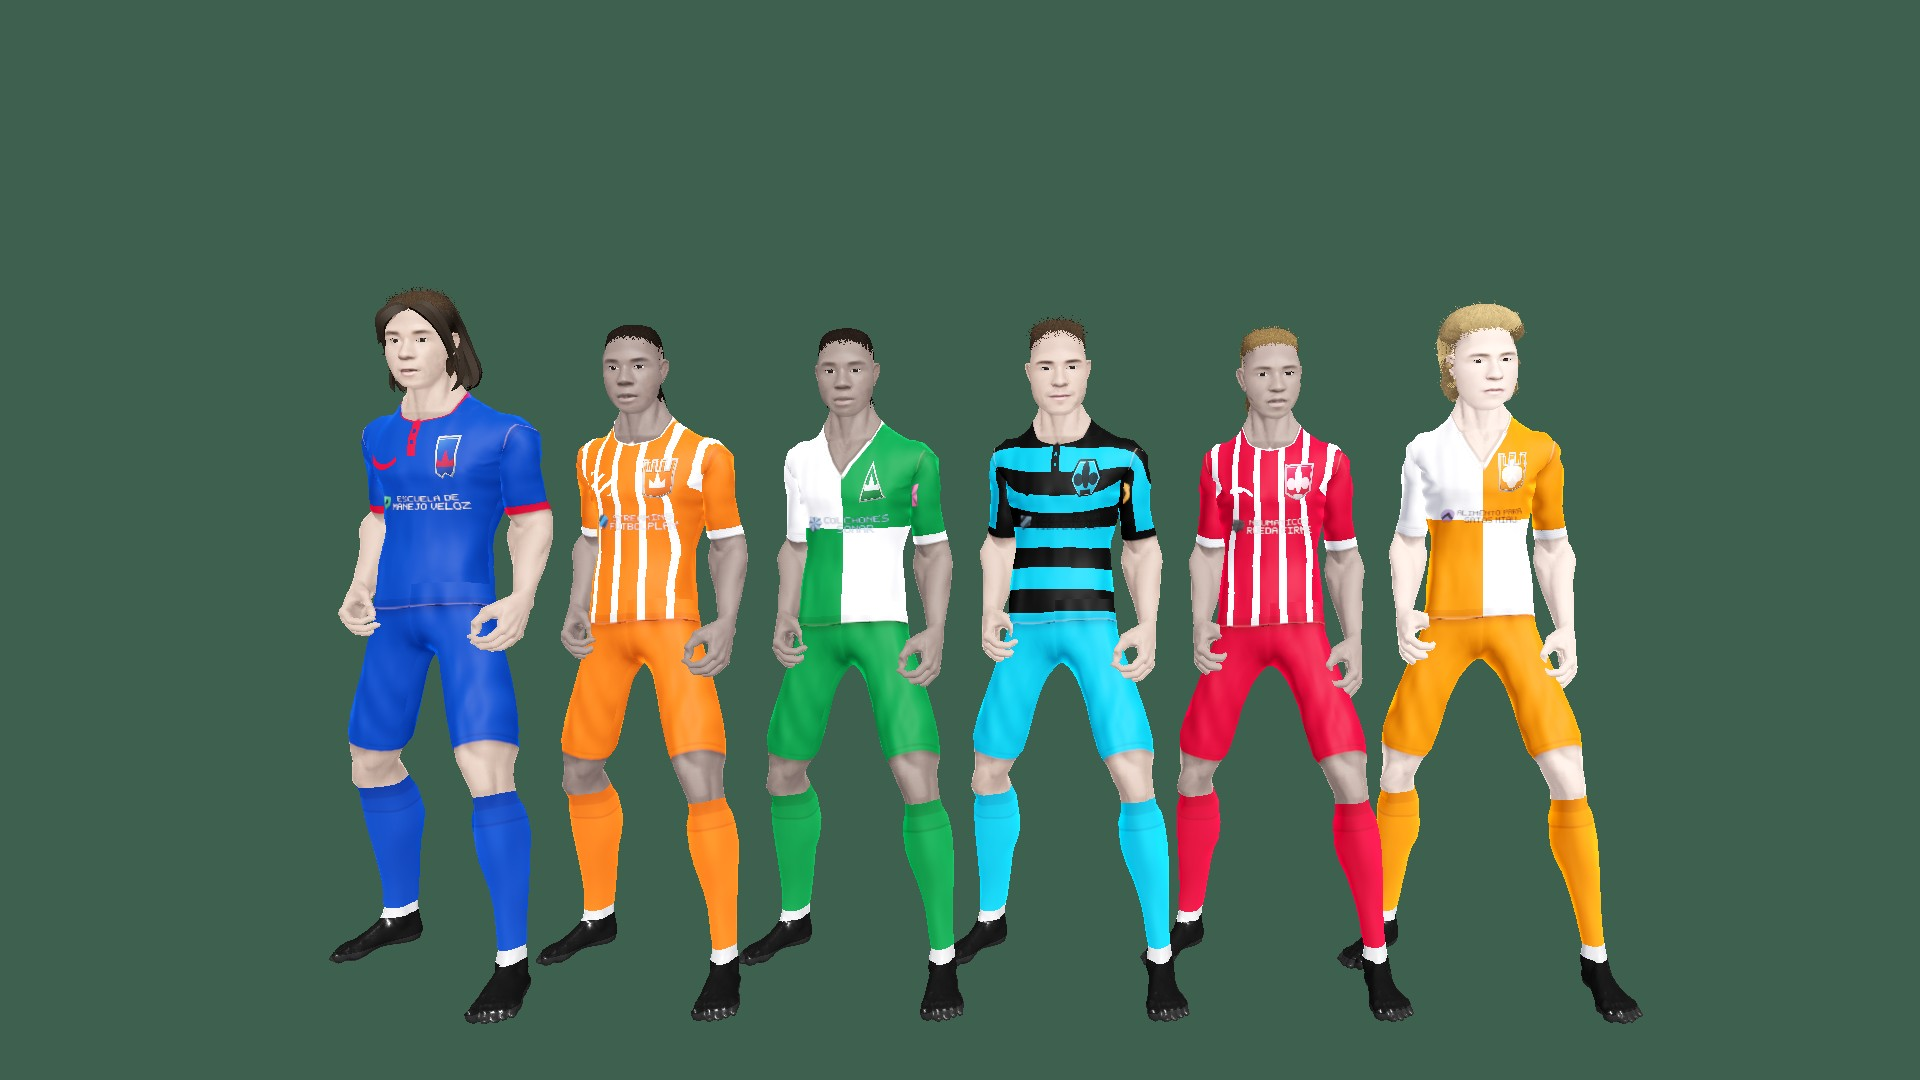
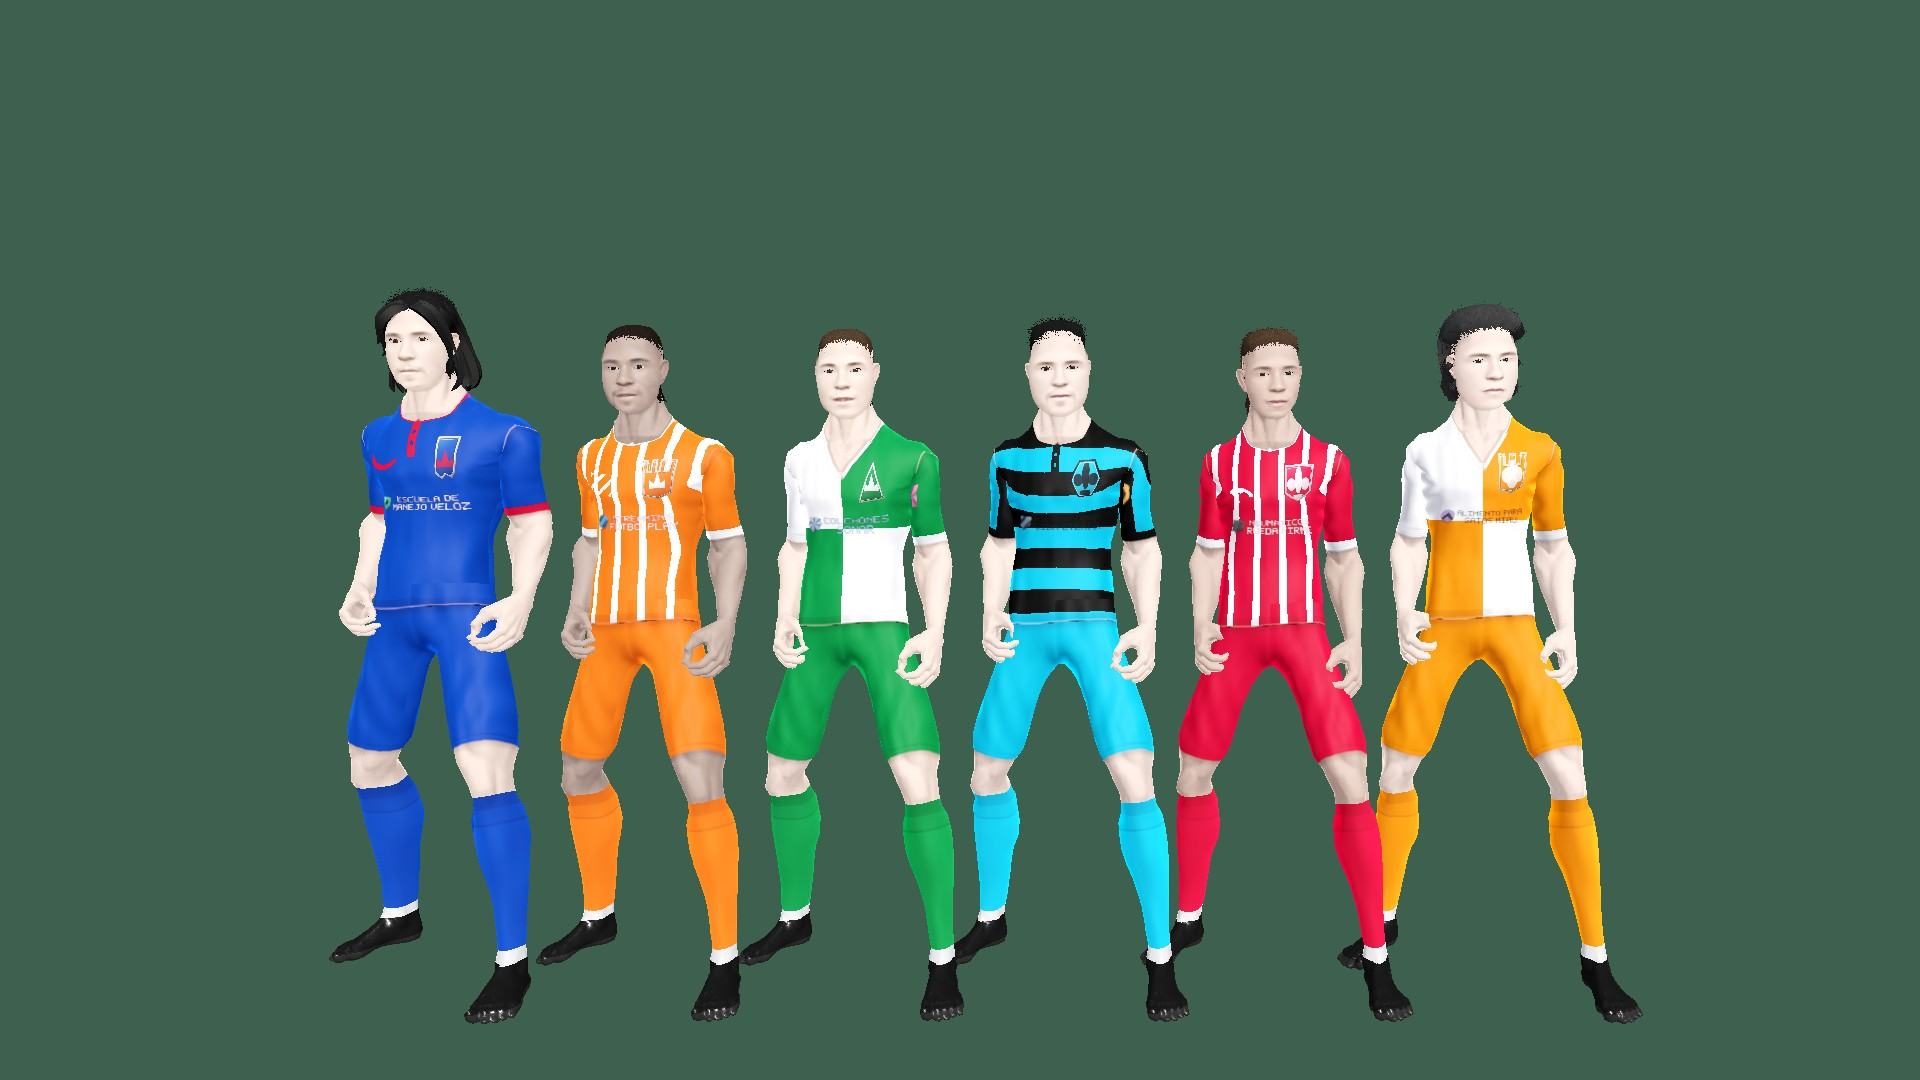
Jugadores inventados con piel y pelo según su país
M-088. Tono medio de piel por país con campana de ±1,2 tonos (siempre hay
variedad) y rubios/castaño claro solo en pieles claras, con probabilidad por
país; los reales siguen con lo medido en su foto. Con String.hash() en vez de
djb2 (con la misma cola de texto daba números correlacionados).
Banco: _probar_piel_por_pais.

Claude-Session: https://claude.ai/code/session_01ARN9gScwNAgW7YBZZkCunU

diff --git a/dinastia-godot/ESTADO_MEJORAS.md b/dinastia-godot/ESTADO_MEJORAS.md
@@ -18,7 +18,7 @@ Estado tras ella: **HECHO 102 · PARCIAL 111 · PENDIENTE 239**. Cerrados: M-021
 
 ### Pasada del 21-10 (tercera: hallazgos del vídeo de gameplay, informe técnico y piezas modulares)
 
-Estado tras ella: **HECHO 104 · PARCIAL 114 · PENDIENTE 234** (contado fila a fila); con la 4.ª (fabricantes M-057, motor del coche M-173, práctica libre M-130, ropa del público M-033, cuerpos M-081 y la pantalla gigante M-011, que ya estaba): **HECHO 112 · PARCIAL 115 · PENDIENTE 225** (con la presión por gatillos M-124, la directiva en el palco M-040 y los choques del coche M-172). Hallazgos del vídeo: pocas ocasiones (M-138: ritmos y `prisa`), controles táctiles en PC (M-433), el mentor tapaba la rueda de prensa (`MentorVoz` espera, grupo `no_tapar_mentor`), haces de farola en triángulo (M-014), malabares rehechos con racha ×2/×3/×4, manos del público del color de la ropa (`hinchada.gdshader`). Informe técnico: oclusión de la ciudad (M-344), panel de objetivos por señal (M-386), texturas revisadas (M-346). Pedido del dueño «reusar todos los objetos, separar y unir de forma modular»: `visor/modulos.gd` (reserva para reciclar, unir/separar conjuntos, guardarlos como datos, teñir por material) y el edificio del club amueblado con él (M-186), con 7 objetos de decoración nuevos.
+Estado tras ella: **HECHO 104 · PARCIAL 114 · PENDIENTE 234** (contado fila a fila); con la 4.ª (fabricantes M-057, motor del coche M-173, práctica libre M-130, ropa del público M-033, cuerpos M-081 y la pantalla gigante M-011, que ya estaba): **HECHO 113 · PARCIAL 115 · PENDIENTE 224** (con la presión por gatillos M-124, la directiva en el palco M-040, los choques del coche M-172 y la piel y el pelo por país M-088). Hallazgos del vídeo: pocas ocasiones (M-138: ritmos y `prisa`), controles táctiles en PC (M-433), el mentor tapaba la rueda de prensa (`MentorVoz` espera, grupo `no_tapar_mentor`), haces de farola en triángulo (M-014), malabares rehechos con racha ×2/×3/×4, manos del público del color de la ropa (`hinchada.gdshader`). Informe técnico: oclusión de la ciudad (M-344), panel de objetivos por señal (M-386), texturas revisadas (M-346). Pedido del dueño «reusar todos los objetos, separar y unir de forma modular»: `visor/modulos.gd` (reserva para reciclar, unir/separar conjuntos, guardarlos como datos, teñir por material) y el edificio del club amueblado con él (M-186), con 7 objetos de decoración nuevos.
 
 ## 1. Resumen en cifras
 
@@ -154,7 +154,7 @@ Hecho 10 % · parcial 25 % · pendiente 60 % · del dueño 2 % · sin verificar 
 | M-085 | P2 | Envejecimiento visual de jugadores (canas, arrugas) no ligado a `edad` | PARCIAL | 21-10: canas desde los 32 en los inventados (`Cara.look_de`, a uno de cada cuatro casi nada); los reales llevan el color de su foto; arrugas pendientes |
 | M-086 | P2 | Expresiones faciales limitadas a `Expresion` básica | PENDIENTE | `Expresion` sin emociones nuevas |
 | M-087 | P2 | Sin parpadeo/respiración idle variados | PARCIAL | parpadeo en el DT/`Expresion`; sin respiración idle en jugadores |
-| M-088 | P1 | Pelo con 30 cortes pero poca variación de color/aspecto por país | PENDIENTE | sin tabla de pelo por país |
+| M-088 | P1 | Pelo con 30 cortes pero poca variación de color/aspecto por país | HECHO | 21-10: los inventados tienen la piel y el color de pelo según su país (`Cara._piel_y_pelo_del_pais`: tono medio por país `TONO_MEDIO` con campana de ±1,2 tonos, rubios y castaño claro solo en pieles claras con probabilidad por país `RUBIOS`); los reales siguen con lo medido en su foto; banco `_probar_piel_por_pais` (GER 1,6 < BRA 3,9 < RSA 4,9; 91/400 rubios en GER, 0 en JPN) |
 | M-089 | P2 | Barbas/cejas por capas apagadas (manchas) | PENDIENTE | barba/cejas por capas siguen apagadas |
 | M-090 | P2 | Guantes de portero sólo color | PENDIENTE | sin geometría de guante |
 | M-091 | P1 | Botines: variedad añadida, pero sin modelos distintos por forma | PARCIAL | `VestidorQ._botin_de` varía modelo/color por dorsal; no hay mallas de bota alta/calcetín |
